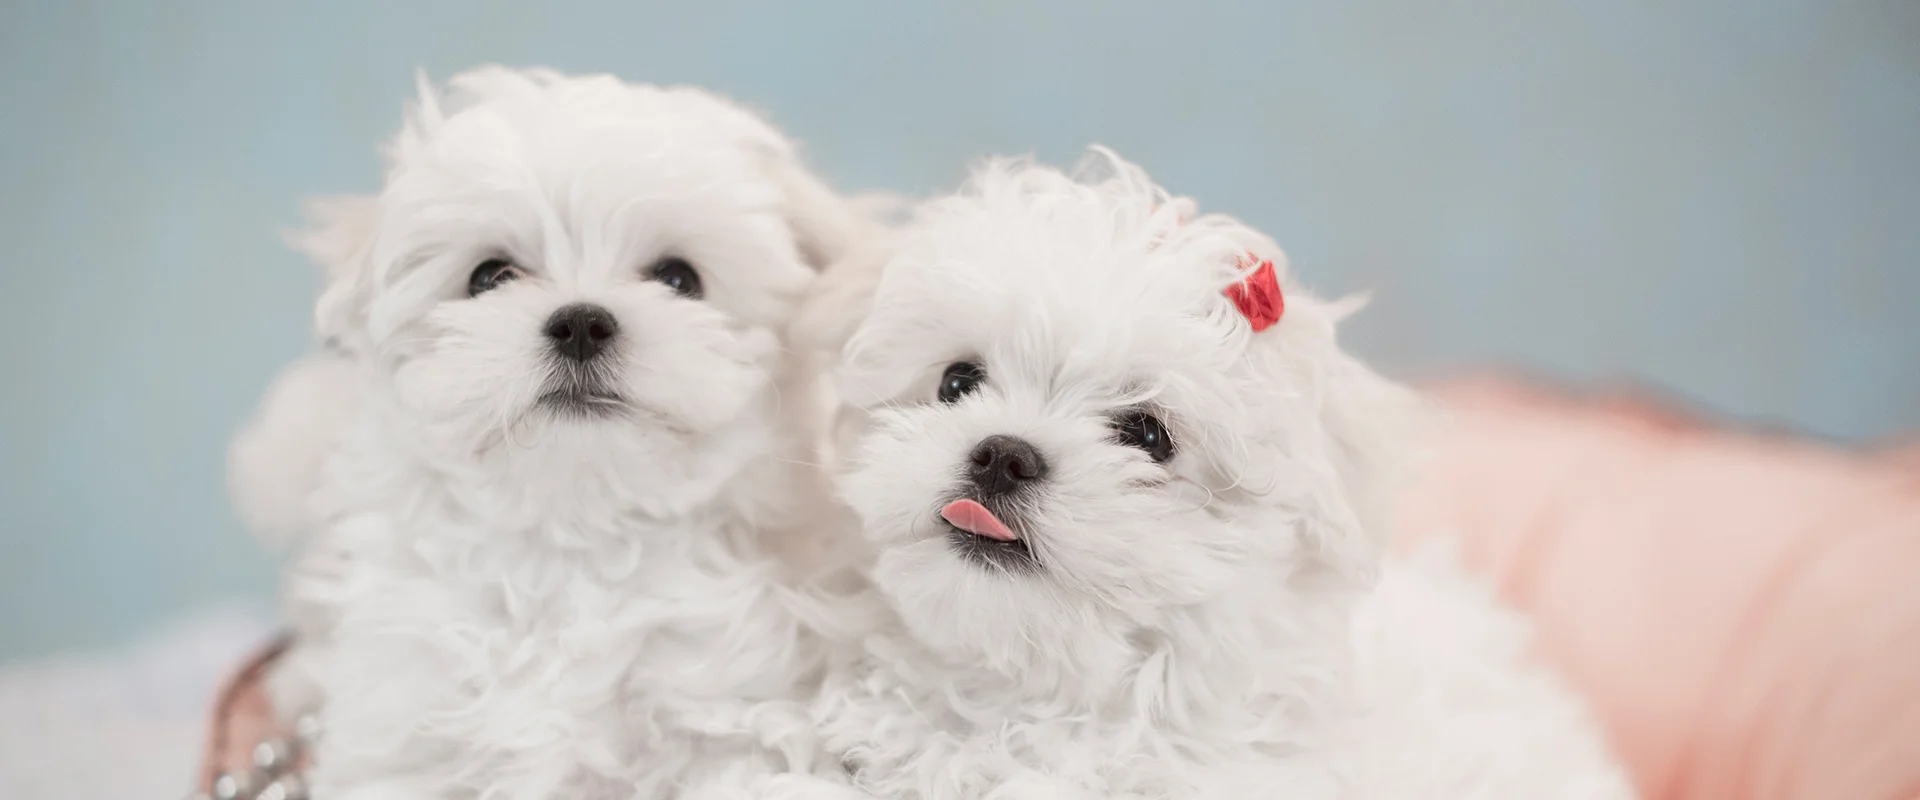
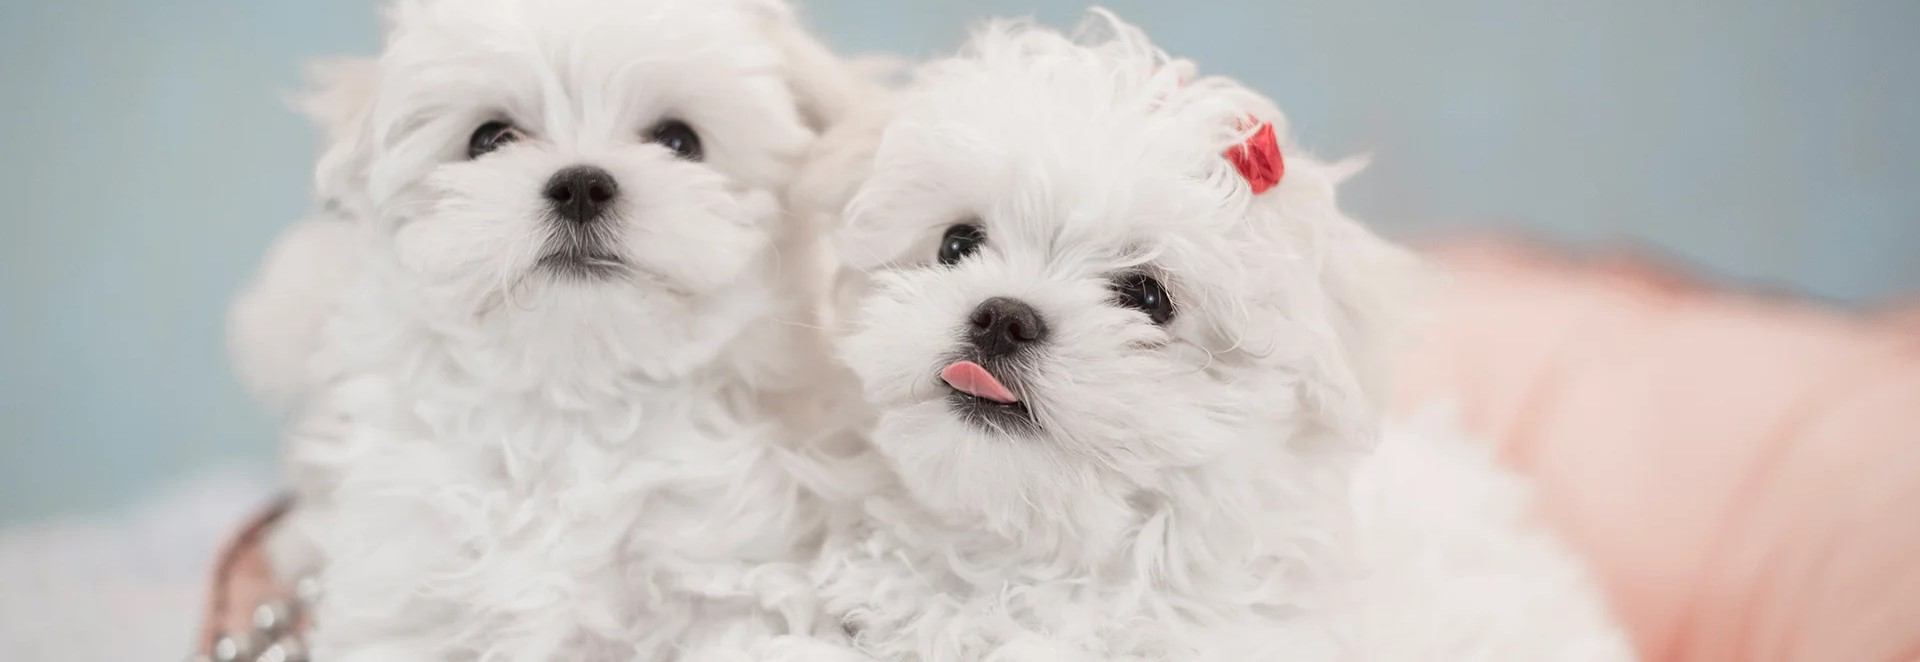
asd

diff --git a/style.css b/style.css
@@ -95,7 +95,7 @@ h2
   
 }
 .baner {
-  background-image: url(OBRAZY/baner4.jpg);
+  background-image: url(./Obrazy/baner.jpg);
   background-size: cover;
   height: 20rem;
   display: grid;
